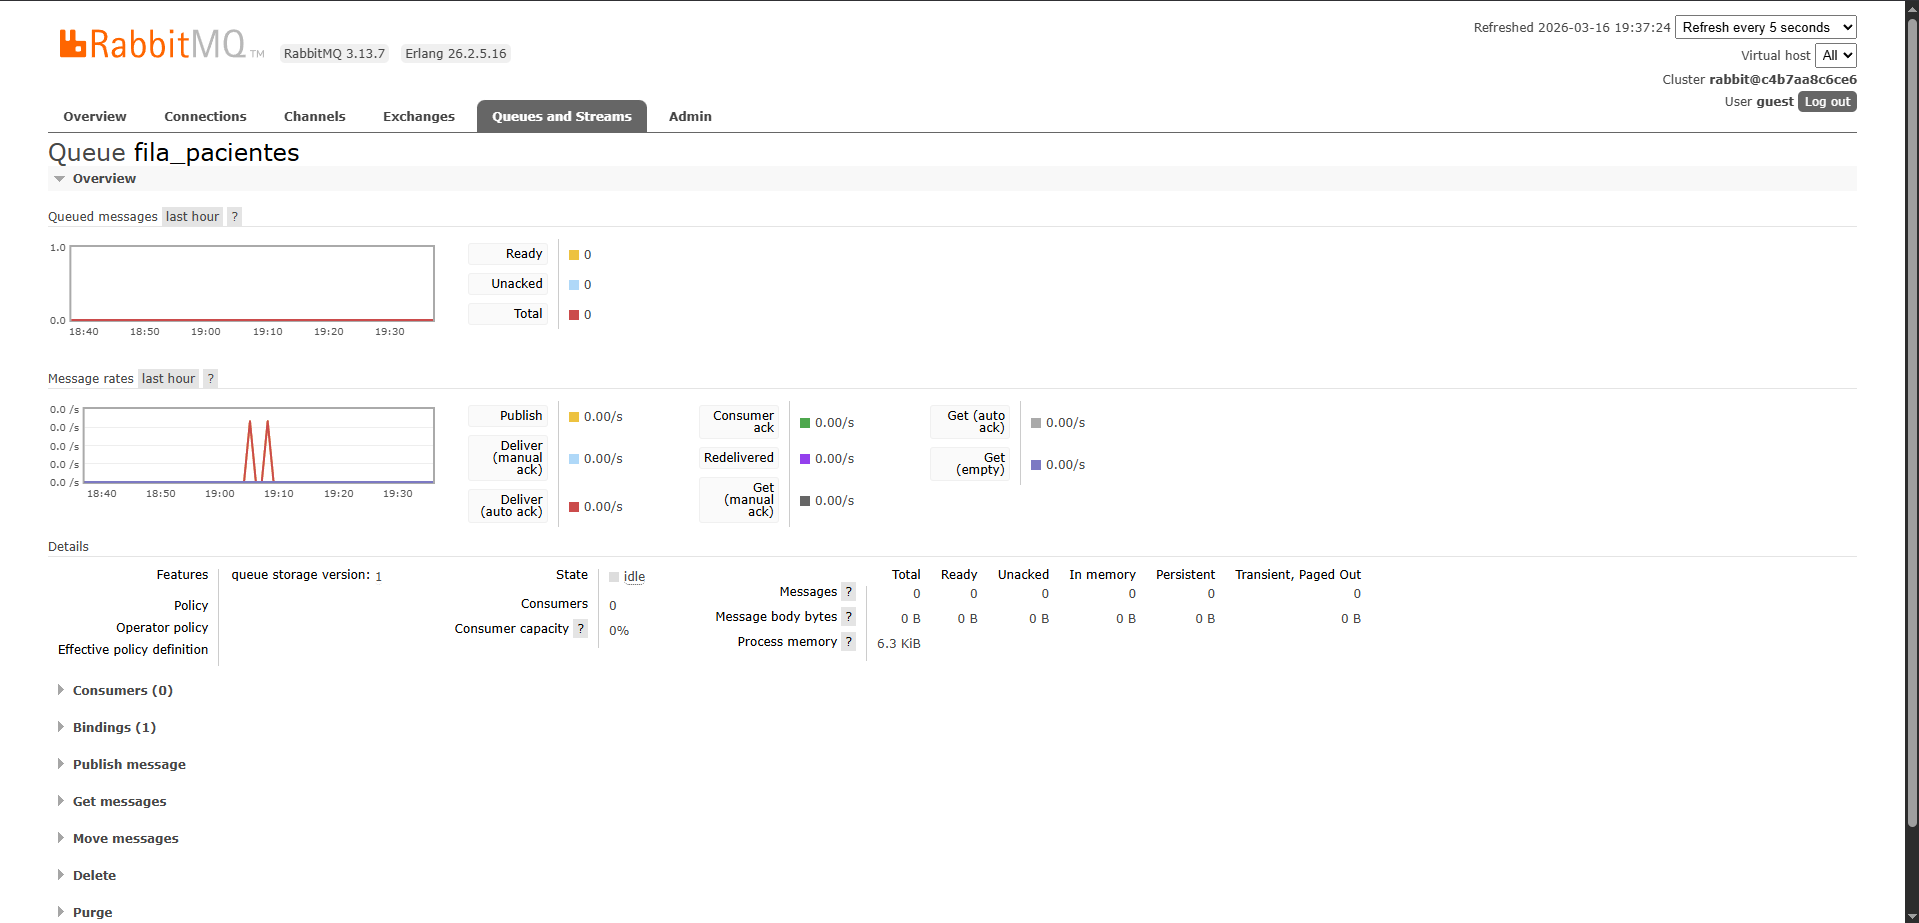
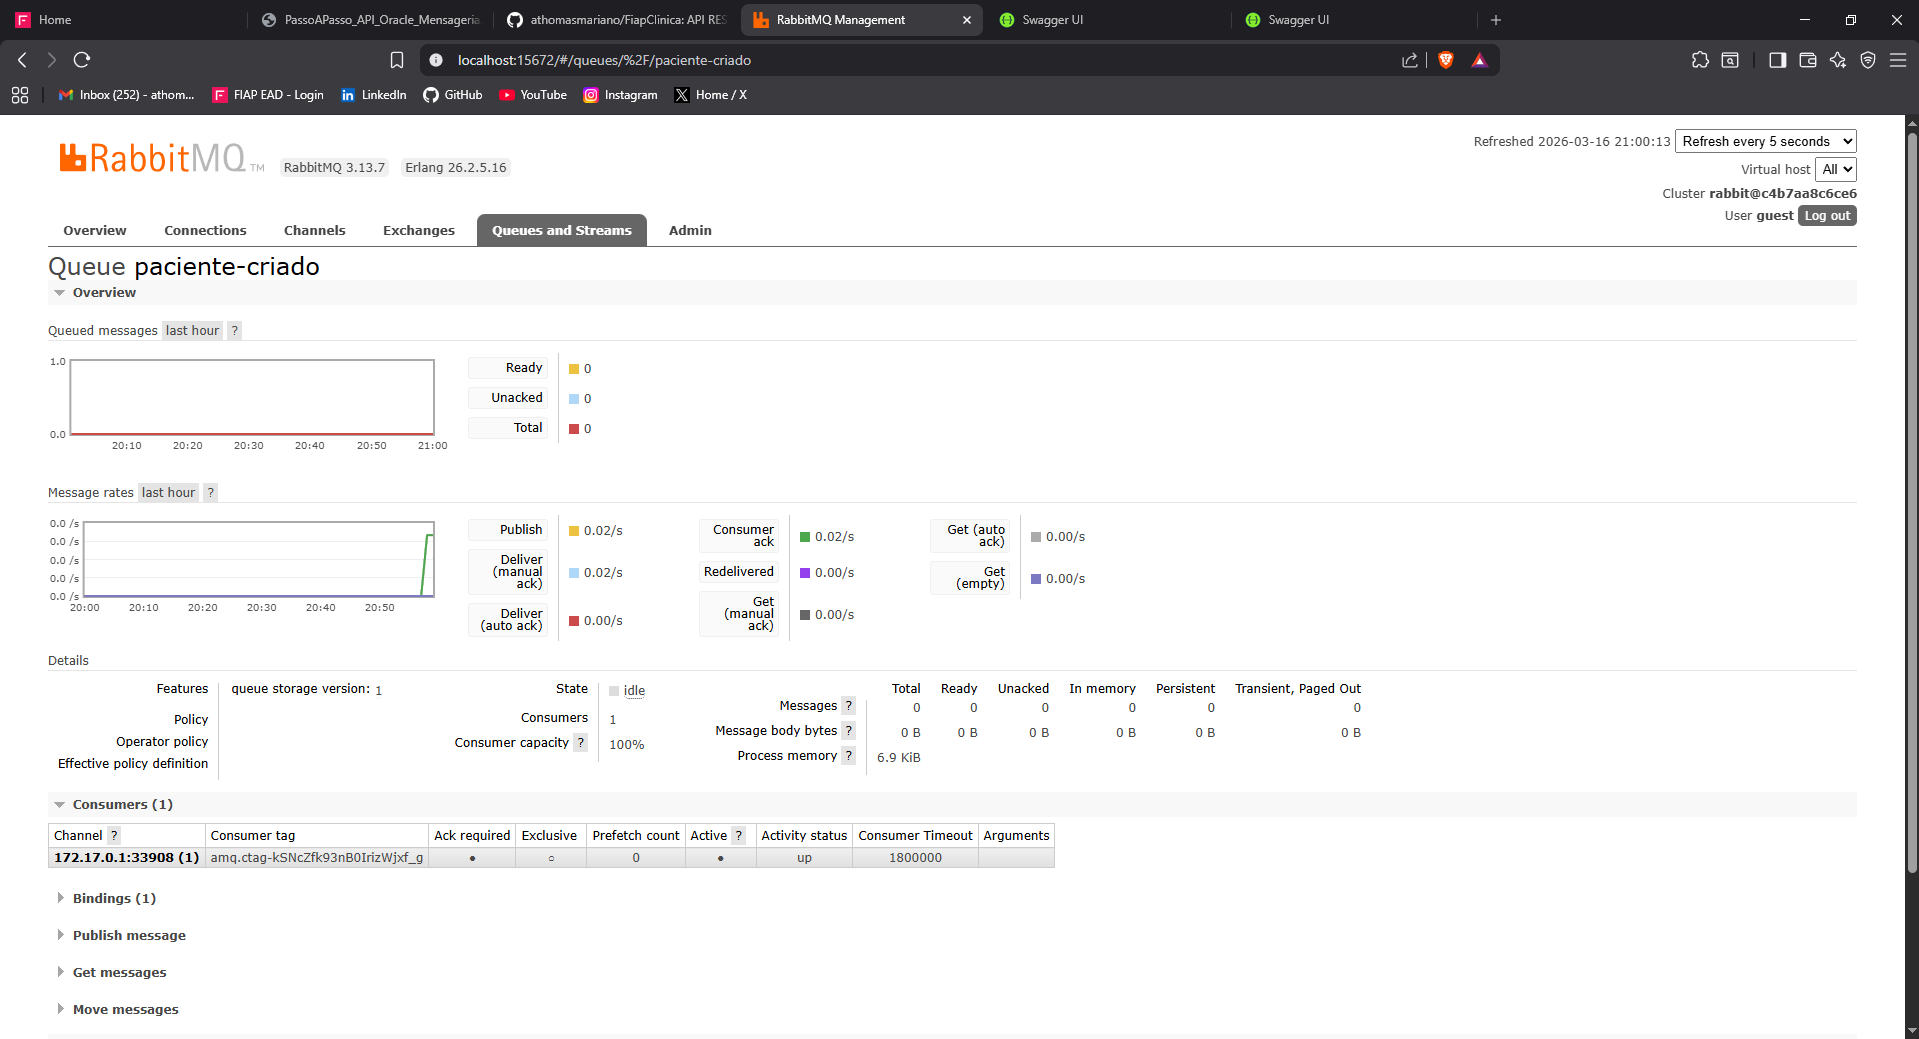
docs: atualiza prints com a fila paciente-criado e ack manual

diff --git a/FiapClinica/Messaging/RabbitMqProducer.cs b/FiapClinica/Messaging/RabbitMqProducer.cs
@@ -6,13 +6,13 @@ namespace FiapClinica.Messaging;
 
 public static class RabbitMqProducer
 {
-    public static void EnviarMensagem<T>(T mensagem)
+    public static void Publish<T>(T mensagem)
     {
         var factory = new ConnectionFactory { HostName = "localhost" };
         using var connection = factory.CreateConnection();
         using var channel = connection.CreateModel();
 
-        channel.QueueDeclare(queue: "fila_pacientes",
+        channel.QueueDeclare(queue: "paciente-criado",
                              durable: false,
                              exclusive: false,
                              autoDelete: false,
@@ -22,7 +22,7 @@ public static class RabbitMqProducer
         var body = Encoding.UTF8.GetBytes(json);
 
         channel.BasicPublish(exchange: "",
-                             routingKey: "fila_pacientes",
+                             routingKey: "paciente-criado",
                              basicProperties: null,
                              body: body);
     }

diff --git a/FiapClinica/Messaging/RabbitMqConsumer.cs b/FiapClinica/Messaging/RabbitMqConsumer.cs
@@ -16,7 +16,7 @@ public class RabbitMqConsumer : BackgroundService
         _connection = factory.CreateConnection();
         _channel = _connection.CreateModel();
 
-        _channel.QueueDeclare(queue: "fila_pacientes",
+        _channel.QueueDeclare(queue: "paciente-criado",
                              durable: false,
                              exclusive: false,
                              autoDelete: false,
@@ -38,7 +38,7 @@ public class RabbitMqConsumer : BackgroundService
             _channel.BasicAck(deliveryTag: ea.DeliveryTag, multiple: false);
         };
 
-        _channel.BasicConsume(queue: "fila_pacientes",
+        _channel.BasicConsume(queue: "paciente-criado",
                              autoAck: false,
                              consumer: consumer);
 

diff --git a/FiapClinica/Controllers/PacientesController.cs b/FiapClinica/Controllers/PacientesController.cs
@@ -41,7 +41,7 @@ public class PacientesController : ControllerBase
         _context.Pacientes.Add(paciente);
         await _context.SaveChangesAsync();
 
-        RabbitMqProducer.EnviarMensagem(paciente);
+        RabbitMqProducer.Publish(paciente);
 
         return CreatedAtAction(nameof(GetById), new { id = paciente.Id }, paciente); // Retorna 201
     }
